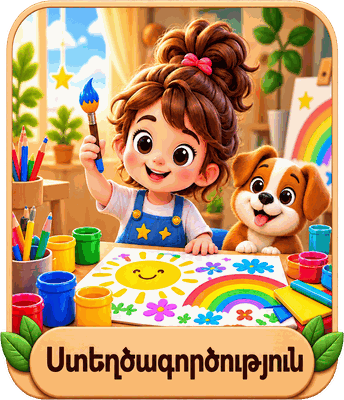
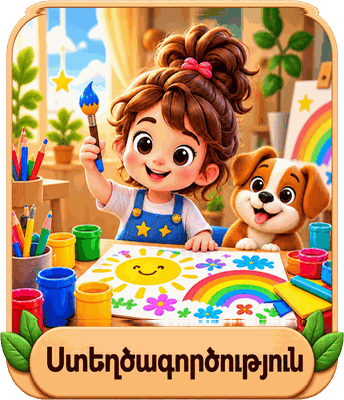
Add files via upload

diff --git a/styles.css b/styles.css
@@ -204,7 +204,7 @@ html.ios-standalone .modal {
 
 /* Nature — bird gently glides, waterfall catches light, tiny pollen glints. */
 .nature-bird {
-  background-image:url('nature.png?v=25');
+  background-image:url('nature.png?v=26');
   clip-path:polygon(70% 7%, 100% 7%, 100% 35%, 72% 34%);
   transform-origin:84% 20%;
   animation:natureBirdFloat 4.8s ease-in-out infinite;
@@ -229,25 +229,25 @@ html.ios-standalone .modal {
 
 /* Space — astronaut + planets float independently; rocket drifts; stars twinkle. */
 .space-earth {
-  background-image:url('space.png?v=25');
+  background-image:url('space.png?v=26');
   clip-path:circle(14% at 18% 21%);
   transform-origin:18% 21%;
   animation:spacePlanetA 7.4s ease-in-out infinite;
 }
 .space-saturn {
-  background-image:url('space.png?v=25');
+  background-image:url('space.png?v=26');
   clip-path:ellipse(26% 17% at 77% 17%);
   transform-origin:77% 17%;
   animation:spacePlanetB 8.2s ease-in-out infinite;
 }
 .space-astronaut {
-  background-image:url('space.png?v=25');
+  background-image:url('space.png?v=26');
   clip-path:polygon(18% 20%,74% 18%,76% 72%,24% 78%,12% 52%);
   transform-origin:47% 48%;
   animation:spaceAstronaut 5.8s ease-in-out infinite;
 }
 .space-rocket {
-  background-image:url('space.png?v=25');
+  background-image:url('space.png?v=26');
   clip-path:polygon(71% 31%,100% 29%,100% 61%,74% 60%);
   transform-origin:86% 46%;
   animation:spaceRocket 4.6s ease-in-out infinite;
@@ -262,13 +262,13 @@ html.ios-standalone .modal {
 
 /* Mind games — idea bulb pulses, blocks bob very gently. */
 .mind-bulb {
-  background-image:url('mind.png?v=25');
+  background-image:url('mind.png?v=26');
   clip-path:circle(15% at 55% 19%);
   transform-origin:55% 19%;
   animation:mindBulb 2.9s ease-in-out infinite;
 }
 .mind-blocks {
-  background-image:url('mind.png?v=25');
+  background-image:url('mind.png?v=26');
   clip-path:polygon(54% 19%,100% 17%,100% 75%,57% 78%);
   transform-origin:78% 54%;
   animation:mindBlocks 4.9s ease-in-out infinite;
@@ -281,13 +281,13 @@ html.ios-standalone .modal {
 
 /* Creativity — brush moves, puppy has a tiny happy bob, colors sparkle. */
 .create-brush {
-  background-image:url('create.png?v=25');
+  background-image:url('create.png?v=26');
   clip-path:polygon(18% 12%,42% 11%,46% 58%,20% 59%);
   transform-origin:31% 45%;
   animation:createBrush 3.8s ease-in-out infinite;
 }
 .create-dog {
-  background-image:url('create.png?v=25');
+  background-image:url('create.png?v=26');
   clip-path:ellipse(25% 25% at 78% 50%);
   transform-origin:78% 55%;
   animation:createDog 5.2s ease-in-out infinite;
@@ -302,7 +302,7 @@ html.ios-standalone .modal {
 
 /* Magic room — the main star gently floats; book + hanging stars breathe with light. */
 .magic-star-float {
-  background-image:url('magic.png?v=25');
+  background-image:url('magic.png?v=26');
   clip-path:polygon(35% 7%,64% 7%,66% 60%,35% 60%);
   transform-origin:50% 34%;
   animation:magicStarFloat 4.4s ease-in-out infinite;
@@ -335,3 +335,51 @@ html.ios-standalone .modal {
 .effects-off .create-rainbow-glow,
 .effects-off .magic-spark,
 .effects-off .magic-book-glow { opacity:0 !important; }
+
+
+/* ================= V26 stronger premium motion ================= */
+.nature-deer-head{background-image:url('nature.png?v=26');clip-path:polygon(8% 14%,58% 14%,59% 58%,18% 58%);transform-origin:34% 58%;animation:v26Deer 4.8s ease-in-out infinite}
+@keyframes v26Deer{0%,100%{transform:translate3d(-1px,0,0) rotate(-1.8deg)}25%{transform:translate3d(1px,-1px,0) rotate(.4deg)}50%{transform:translate3d(3px,0,0) rotate(2.1deg)}75%{transform:translate3d(1px,1px,0) rotate(.2deg)}}
+.nature-bird{animation:v26Bird 4.1s ease-in-out infinite}
+@keyframes v26Bird{0%,100%{transform:translate3d(0,1px,0) rotate(-.7deg)}50%{transform:translate3d(-4px,-5px,0) rotate(1.2deg)}}
+.nature-water-shimmer{background:linear-gradient(110deg,transparent 16%,rgba(255,255,255,.55) 49%,transparent 74%);animation:v26Water 3.8s ease-in-out infinite}
+@keyframes v26Water{0%,100%{opacity:.08;transform:skewX(-10deg) translateX(-40%)}52%{opacity:.42;transform:skewX(-10deg) translateX(40%)}}
+
+.space-earth{animation:v26Earth 6.4s ease-in-out infinite}
+.space-saturn{animation:v26Saturn 7.1s ease-in-out infinite}
+.space-astronaut{animation:v26Astronaut 5s ease-in-out infinite}
+.space-rocket{animation:v26Rocket 4.2s ease-in-out infinite}
+@keyframes v26Astronaut{0%,100%{transform:translate3d(-1px,2px,0) rotate(-1deg)}50%{transform:translate3d(2px,-6px,0) rotate(1.35deg)}}
+@keyframes v26Earth{0%,100%{transform:translate3d(-2px,1px,0) rotate(-1deg)}50%{transform:translate3d(4px,-4px,0) rotate(2deg)}}
+@keyframes v26Saturn{0%,100%{transform:translate3d(2px,-1px,0) rotate(.8deg)}50%{transform:translate3d(-4px,4px,0) rotate(-1.8deg)}}
+@keyframes v26Rocket{0%,100%{transform:translate3d(-1px,2px,0) rotate(.3deg)}50%{transform:translate3d(5px,-5px,0) rotate(-1.7deg)}}
+.space-twinkle{width:7px;height:7px;box-shadow:0 0 10px 3px rgba(120,190,255,.95);animation:v26Twinkle 2.3s ease-in-out infinite}
+@keyframes v26Twinkle{0%,100%{opacity:.08;transform:scale(.35)}50%{opacity:1;transform:scale(1.55)}}
+
+.mind-bulb-glow{position:absolute;z-index:2;pointer-events:none;left:39%;top:4%;width:33%;height:31%;border-radius:50%;background:radial-gradient(circle,rgba(255,245,140,.72) 0%,rgba(255,220,50,.30) 42%,transparent 73%);filter:blur(4px);animation:v26BulbAura 2.6s ease-in-out infinite}
+.mind-bulb{animation:v26Bulb 2.6s ease-in-out infinite}
+.mind-blocks{animation:v26Blocks 4.4s ease-in-out infinite}
+@keyframes v26BulbAura{0%,100%{opacity:.13;transform:scale(.92)}50%{opacity:.82;transform:scale(1.12)}}
+@keyframes v26Bulb{0%,100%{filter:brightness(.96) drop-shadow(0 0 1px rgba(255,223,64,.1));transform:scale(.99)}50%{filter:brightness(1.42) saturate(1.12) drop-shadow(0 0 12px rgba(255,223,64,.95));transform:scale(1.03)}}
+@keyframes v26Blocks{0%,100%{transform:translate3d(0,1px,0)}50%{transform:translate3d(0,-3px,0)}}
+
+.create-brush{animation:v26Brush 3.5s ease-in-out infinite}
+.create-dog{clip-path:ellipse(23% 21% at 81% 48%);transform-origin:81% 60%;animation:v26Dog 4.1s ease-in-out infinite}
+@keyframes v26Brush{0%,100%{transform:translate3d(-1px,1px,0) rotate(-1deg)}50%{transform:translate3d(2px,-4px,0) rotate(2deg)}}
+@keyframes v26Dog{0%,100%{transform:translate3d(0,2px,0) rotate(.5deg)}50%{transform:translate3d(0,-4px,0) rotate(-1.6deg)}}
+.create-rainbow-glow{animation:v26Rainbow 3.2s ease-in-out infinite}
+@keyframes v26Rainbow{0%,100%{opacity:.07}50%{opacity:.48}}
+
+.magic-star-float{animation:v26MagicFloat 4s ease-in-out infinite;filter:drop-shadow(0 0 7px rgba(255,218,65,.38))}
+@keyframes v26MagicFloat{0%,100%{transform:translate3d(0,2px,0) rotate(-.6deg)}50%{transform:translate3d(0,-5px,0) rotate(.7deg)}}
+.magic-book-glow{animation:v26BookGlow 2.8s ease-in-out infinite}
+@keyframes v26BookGlow{0%,100%{opacity:.2;transform:scale(.95)}50%{opacity:.75;transform:scale(1.07)}}
+
+/* Sequential glossy light sweep: one card at a time */
+.card-shine-mask{position:absolute;inset:0;z-index:6;overflow:hidden;pointer-events:none;border-radius:44px}
+.magic-card .card-shine-mask{border-radius:46px}
+.card-shine-band{position:absolute;top:-24%;left:-52%;width:31%;height:148%;background:linear-gradient(102deg,rgba(255,255,255,0) 0%,rgba(255,255,255,.04) 25%,rgba(255,255,255,.62) 48%,rgba(255,245,189,.36) 57%,rgba(255,255,255,0) 78%);filter:blur(2.2px);opacity:0;animation:v26Sheen 10s ease-in-out infinite}
+.nature-card .card-shine-band{animation-delay:0s}.space-card .card-shine-band{animation-delay:2s}.mind-card .card-shine-band{animation-delay:4s}.create-card .card-shine-band{animation-delay:6s}.magic-card .card-shine-band{animation-delay:8s}
+@keyframes v26Sheen{0%,2%{opacity:0;transform:rotate(10deg) translateX(0)}4%{opacity:.12}10%{opacity:.82}18%{opacity:.38;transform:rotate(10deg) translateX(520%)}21%,100%{opacity:0;transform:rotate(10deg) translateX(560%)}}
+
+.effects-off .mind-bulb-glow,.effects-off .card-shine-band{animation:none!important;opacity:0!important}

diff --git a/index.html b/index.html
@@ -53,7 +53,7 @@
   </style>
 
 
-  <style id="areg-v25-final-layout">
+  <style id="areg-v26-final-layout">
     /* V18 FINAL: exact equal-size 2x2 section grid */
     .nature-card,.space-card,.mind-card,.create-card{width:344px!important;height:400px!important;}
     .nature-card{left:9px!important;top:260px!important;}
@@ -74,29 +74,31 @@
   <main id="homeScreen" class="screen screen--active" aria-label="Գլխավոր ընտրացանկ">
     <div id="designStage" class="design-stage" role="application" aria-label="Արեգ 3D աշխարհ">
       <button id="avatarButton" class="asset-button avatar-button" aria-label="Փոխել կերպարի նկարը">
-        <img class="asset-img" src="avatar-frame.png?v=25" alt="" draggable="false" />
+        <img class="asset-img" src="avatar-frame.png?v=26" alt="" draggable="false" />
         <img id="savedAvatar" class="saved-avatar" alt="Ընտրված նկար" draggable="false" hidden />
       </button>
 
-      <img class="logo asset-img" src="logo.png?v=25" alt="Արեգ 3D աշխարհ" draggable="false" />
+      <img class="logo asset-img" src="logo.png?v=26" alt="Արեգ 3D աշխարհ" draggable="false" />
 
       <button id="starCounter" class="asset-button star-counter" aria-label="120 աստղ">
-        <img class="asset-img" src="star-counter.png?v=25" alt="120 աստղ" draggable="false" />
+        <img class="asset-img" src="star-counter.png?v=26" alt="120 աստղ" draggable="false" />
       </button>
 
       <button id="settingsButton" class="asset-button settings-button" aria-label="Կարգավորումներ">
-        <img class="asset-img" src="settings.png?v=25" alt="" draggable="false" />
+        <img class="asset-img" src="settings.png?v=26" alt="" draggable="false" />
       </button>
 
       <button class="section-card nature-card" data-section="nature" aria-label="Բնություն">
-        <img class="asset-img" src="nature.png?v=25" alt="Բնություն" draggable="false" />
+        <img class="asset-img" src="nature.png?v=26" alt="Բնություն" draggable="false" />
+        <span class="card-layer nature-deer-head" aria-hidden="true"></span>
         <span class="card-layer nature-bird" aria-hidden="true"></span>
         <span class="card-fx nature-glint nature-glint-a" aria-hidden="true"></span>
         <span class="card-fx nature-glint nature-glint-b" aria-hidden="true"></span>
         <span class="nature-water-shimmer" aria-hidden="true"></span>
+        <span class="card-shine-mask" aria-hidden="true"><span class="card-shine-band"></span></span>
       </button>
       <button class="section-card space-card" data-section="space" aria-label="Տիեզերք">
-        <img class="asset-img" src="space.png?v=25" alt="Տիեզերք" draggable="false" />
+        <img class="asset-img" src="space.png?v=26" alt="Տիեզերք" draggable="false" />
         <span class="card-layer space-earth" aria-hidden="true"></span>
         <span class="card-layer space-saturn" aria-hidden="true"></span>
         <span class="card-layer space-astronaut" aria-hidden="true"></span>
@@ -104,33 +106,38 @@
         <span class="space-twinkle st1" aria-hidden="true"></span>
         <span class="space-twinkle st2" aria-hidden="true"></span>
         <span class="space-twinkle st3" aria-hidden="true"></span>
+        <span class="card-shine-mask" aria-hidden="true"><span class="card-shine-band"></span></span>
       </button>
       <button class="section-card mind-card" data-section="mind" aria-label="Մտքի խաղեր">
-        <img class="asset-img" src="mind.png?v=25" alt="Մտքի խաղեր" draggable="false" />
+        <img class="asset-img" src="mind.png?v=26" alt="Մտքի խաղեր" draggable="false" />
+        <span class="mind-bulb-glow" aria-hidden="true"></span>
         <span class="card-layer mind-bulb" aria-hidden="true"></span>
         <span class="card-layer mind-blocks" aria-hidden="true"></span>
         <span class="mind-thought-dot md1" aria-hidden="true"></span>
         <span class="mind-thought-dot md2" aria-hidden="true"></span>
+        <span class="card-shine-mask" aria-hidden="true"><span class="card-shine-band"></span></span>
       </button>
       <button class="section-card create-card" data-section="create" aria-label="Ստեղծագործություն">
-        <img class="asset-img" src="create.png?v=25" alt="Ստեղծագործություն" draggable="false" />
+        <img class="asset-img" src="create.png?v=26" alt="Ստեղծագործություն" draggable="false" />
         <span class="card-layer create-brush" aria-hidden="true"></span>
         <span class="card-layer create-dog" aria-hidden="true"></span>
         <span class="create-paint-spark cp1" aria-hidden="true"></span>
         <span class="create-paint-spark cp2" aria-hidden="true"></span>
         <span class="create-rainbow-glow" aria-hidden="true"></span>
+        <span class="card-shine-mask" aria-hidden="true"><span class="card-shine-band"></span></span>
       </button>
       <button class="section-card magic-card" data-section="magic" aria-label="Կախարդական աստղի սենյակ">
         <span class="magic-glow" aria-hidden="true"></span>
-        <img class="asset-img" src="magic.png?v=25" alt="Կախարդական աստղի սենյակ" draggable="false" />
+        <img class="asset-img" src="magic.png?v=26" alt="Կախարդական աստղի սենյակ" draggable="false" />
         <span class="card-layer magic-star-float" aria-hidden="true"></span>
         <span class="magic-spark ms1" aria-hidden="true"></span>
         <span class="magic-spark ms2" aria-hidden="true"></span>
         <span class="magic-spark ms3" aria-hidden="true"></span>
         <span class="magic-book-glow" aria-hidden="true"></span>
+        <span class="card-shine-mask" aria-hidden="true"><span class="card-shine-band"></span></span>
       </button>
 
-      <img class="bottom-landscape asset-img" src="bottom-landscape.png?v=25" alt="" draggable="false" />
+      <img class="bottom-landscape asset-img" src="bottom-landscape.png?v=26" alt="" draggable="false" />
     </div>
   </main>
 
@@ -188,7 +195,7 @@
 
   <div id="toast" class="toast" role="status" aria-live="polite"></div>
 
-  <audio id="menuMusic" src="menu-music.mp3?v=25" loop preload="auto"></audio>
+  <audio id="menuMusic" src="menu-music.mp3?v=26" loop preload="auto"></audio>
 <script>
     (function(){
       const v = encodeURIComponent(window.__AREG_BUILD || String(Date.now()));

diff --git a/service-worker.js b/service-worker.js
@@ -1,10 +1,10 @@
-const CACHE = 'areg-kids-game-v25';
+const CACHE = 'areg-kids-game-v26';
 const CORE = [
   './launcher.html',
   './', './index.html', './styles.css', './app.js', './v9-fix.js',
-  './avatar-frame.png?v=25', './logo.png?v=25', './star-counter.png?v=25', './settings.png?v=25',
-  './nature.png?v=25', './space.png?v=25', './mind.png?v=25', './create.png?v=25', './magic.png?v=25', './bottom-landscape.png?v=25',
-  './menu-music.mp3?v=25'
+  './avatar-frame.png?v=26', './logo.png?v=26', './star-counter.png?v=26', './settings.png?v=26',
+  './nature.png?v=26', './space.png?v=26', './mind.png?v=26', './create.png?v=26', './magic.png?v=26', './bottom-landscape.png?v=26',
+  './menu-music.mp3?v=26'
 ];
 
 self.addEventListener('install', event => {

diff --git a/launcher.html b/launcher.html
@@ -16,7 +16,7 @@
   const stamp = Date.now();
   try { if ('serviceWorker' in navigator) { const regs = await navigator.serviceWorker.getRegistrations(); await Promise.all(regs.map(r => r.unregister())); } } catch (_) {}
   try { if ('caches' in window) { const keys = await caches.keys(); await Promise.all(keys.map(k => caches.delete(k))); } } catch (_) {}
-  location.replace('./?kiosk=v25-' + stamp + '&hardrefresh=1');
+  location.replace('./?kiosk=v26-' + stamp + '&hardrefresh=1');
 })();
 </script>
 </body>
